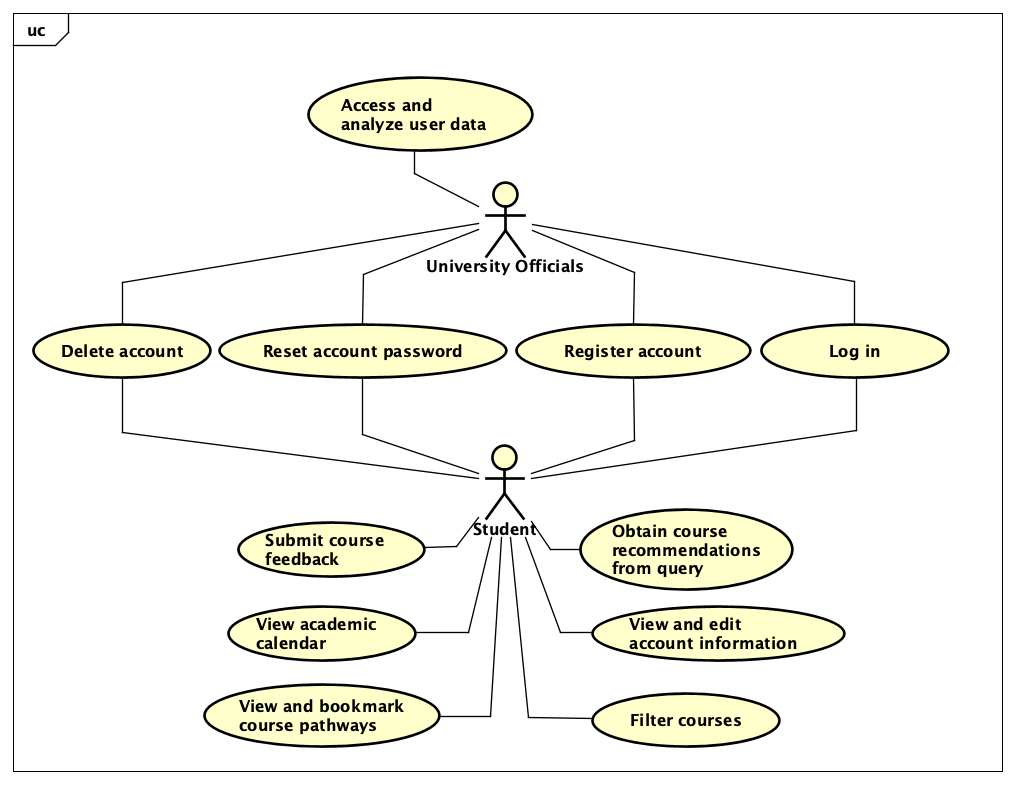
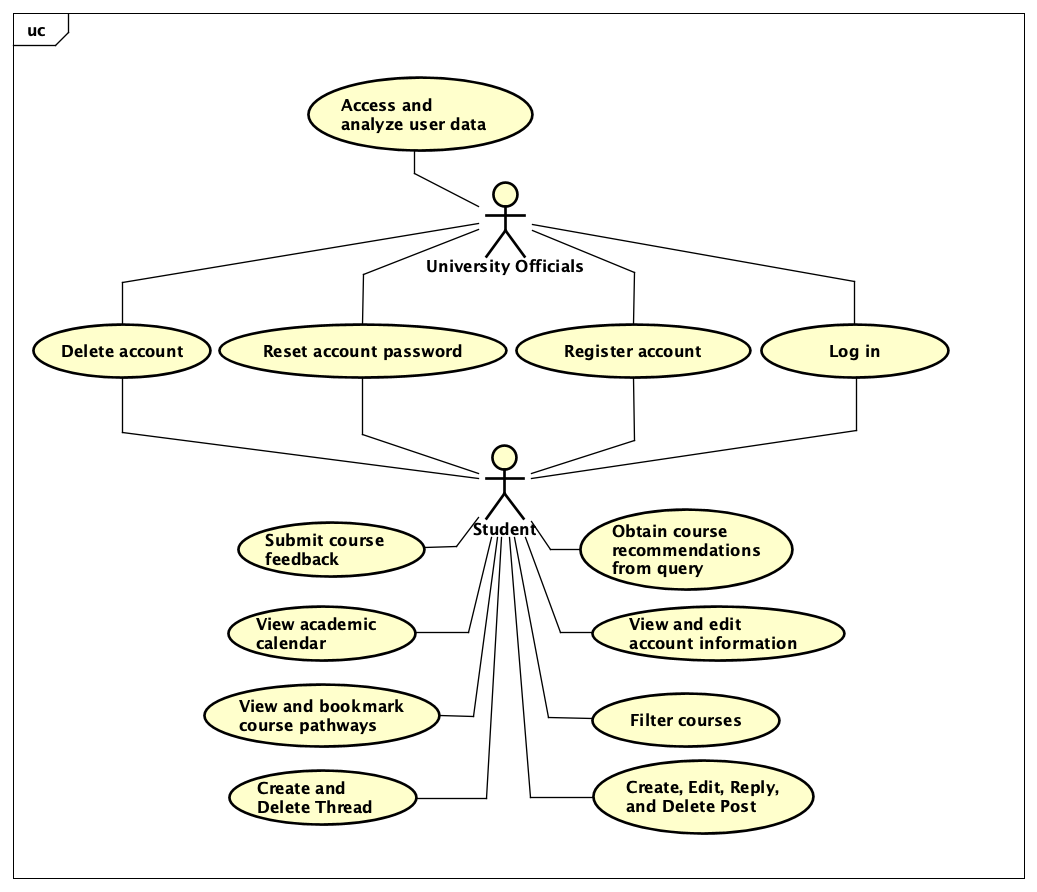
ComponentDiagram description UseCaseDiagram.png changed

diff --git a/Writerside/topics/System-Design-Diagrams.md b/Writerside/topics/System-Design-Diagrams.md
@@ -6,6 +6,17 @@
 
 ![ComponentDiagram.png](ComponentDiagram.png)
 
+| Component         | Description                                                                                                                                            |
+|-------------------|--------------------------------------------------------------------------------------------------------------------------------------------------------|
+| User Interface    | Provides a user-friendly interface for students to interact with the course recommendation system.                                                     |
+| Academic Calendar | Provides the User Interface component access to the academic calendar.                                                                                 |
+| Feedback System   | Allows students to post threads and view other users' threads.                                                                                         |
+| OpenAI API        | Analyzes user queries, extracts relevant information, and processes course descriptions to provide course recommendations.                             |
+| User Database     | Stores and manages user account information, including login credentials and profile information.                                                      |
+| Course Database   | Stores and manages the university's course catalog data, including course descriptions, credits, prerequisites, instructor information, and schedules. |
+
+
+
 ## Use cases
 
 ![UseCaseDiagram](UseCaseDiagram.png)
